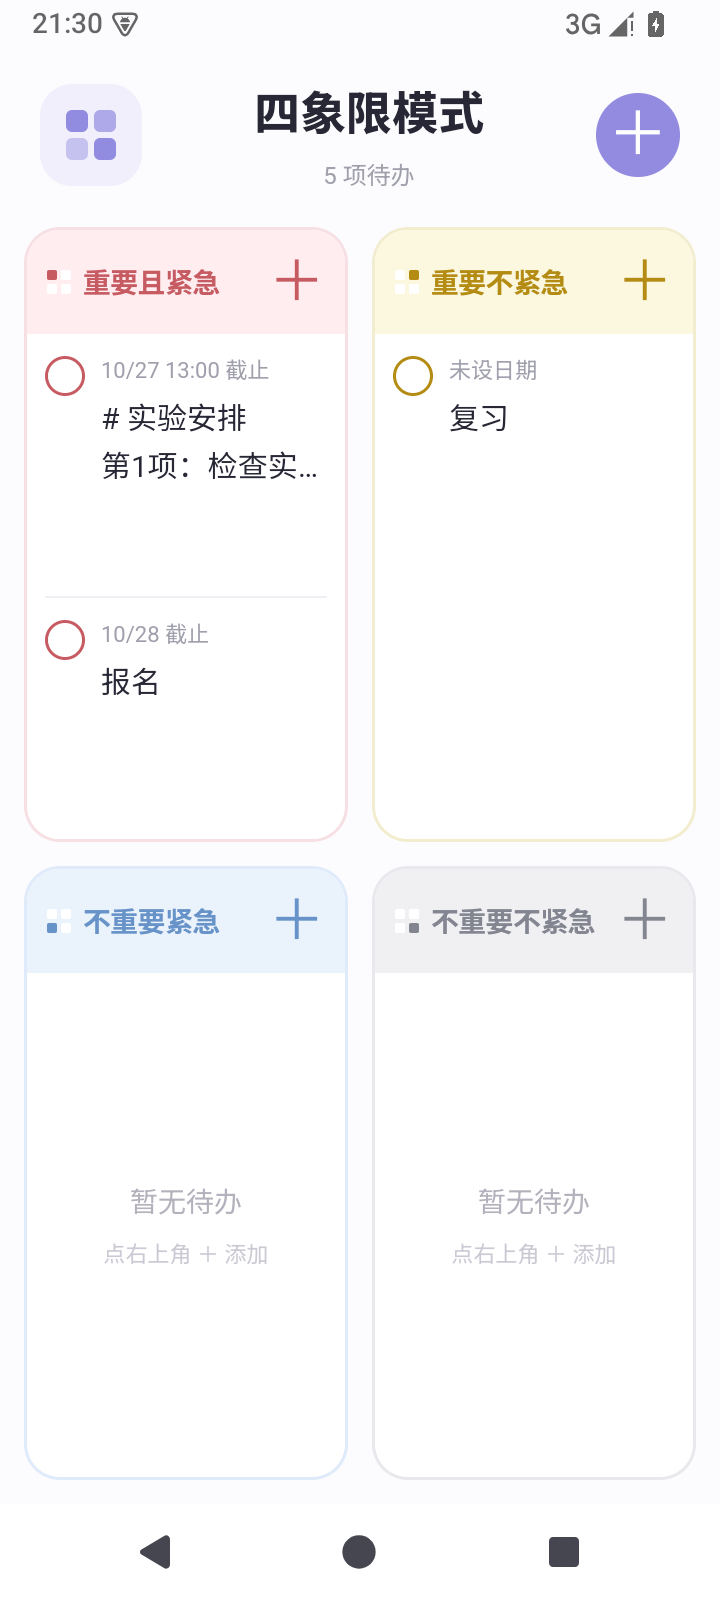
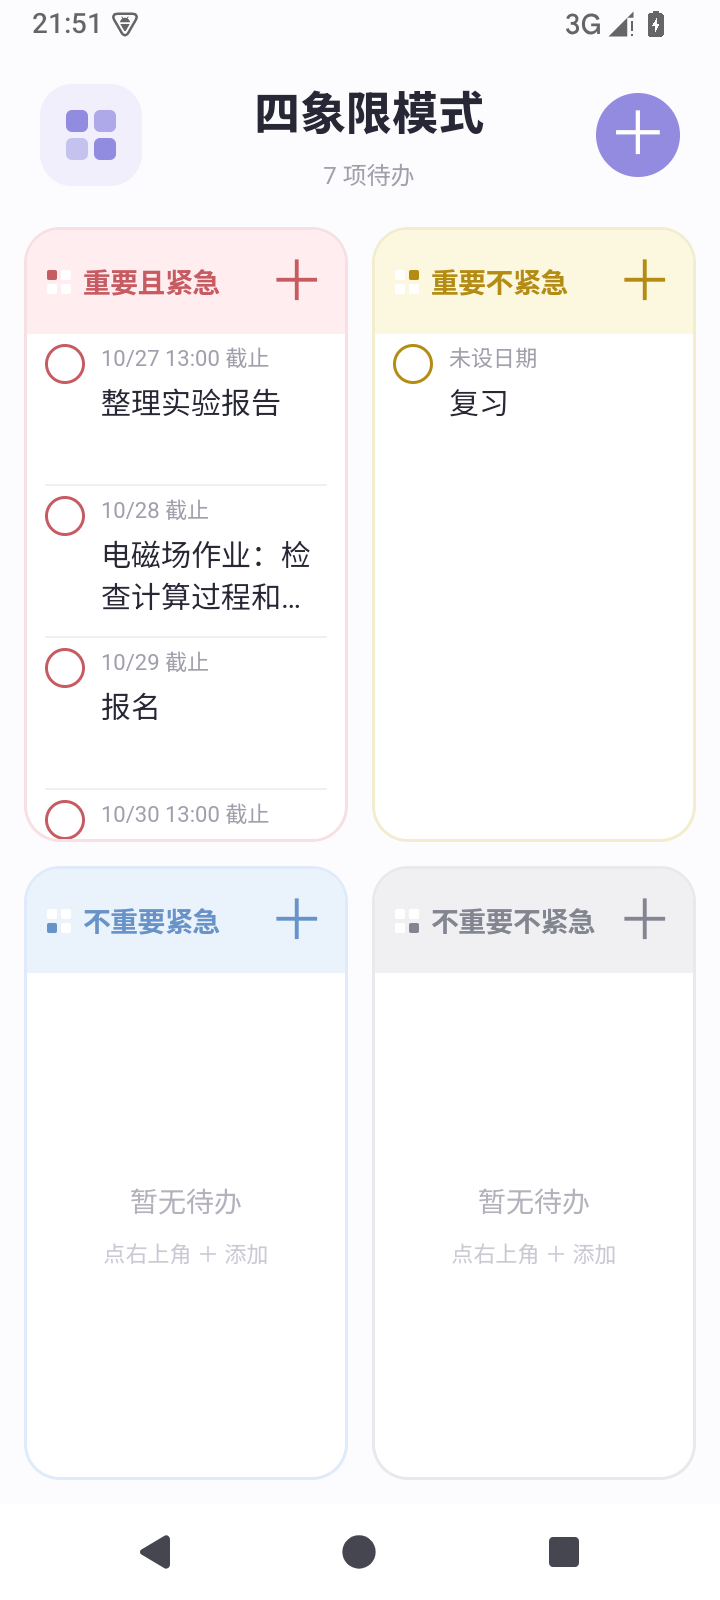
Fit about three and a half tasks per quadrant and show photos in details

diff --git a/assets/style.css b/assets/style.css
@@ -1,7 +1,7 @@
 :root{font-family:system-ui,-apple-system,"Noto Sans CJK SC","Microsoft YaHei",sans-serif;color:#272735;background:#fcfcfe;font-synthesis:none;--accent:#8580dd;--safe-top:0px;--safe-bottom:0px}
 *{box-sizing:border-box;-webkit-tap-highlight-color:transparent}body{margin:0;overscroll-behavior:none}button,input,textarea,select{font:inherit}button{cursor:pointer}button:focus-visible,select:focus-visible,textarea:focus-visible,input:focus-visible{outline:2px solid var(--accent);outline-offset:2px}[hidden]{display:none!important}
 #app{height:100vh;height:100dvh;padding:calc(12px + var(--safe-top)) 12px calc(12px + var(--safe-bottom));display:flex;flex-direction:column;gap:18px}.page-header{display:flex;align-items:center;justify-content:space-between;padding:3px 8px 0;flex:none}.page-header h1{font-size:27px;letter-spacing:.5px;margin:0;font-weight:750}.page-header p{font-size:12px;color:#a0a0ac;margin:6px 0 0}.app-mark{display:grid;grid-template-columns:11px 11px;gap:3px;padding:13px;border-radius:16px;background:#f0effb}.app-mark i{height:11px;background:#928ce0;border-radius:3px}.app-mark i:nth-child(2){opacity:.7}.app-mark i:nth-child(3){opacity:.45}
-.board{display:grid;grid-template-columns:minmax(0,1fr) minmax(0,1fr);grid-template-rows:minmax(0,1fr) minmax(0,1fr);gap:12px;flex:1;min-height:0}.quad{--q:#c65b62;--tint:#ffedf0;--line:#f6e0e4;display:flex;flex-direction:column;min-width:0;min-height:0;border:1.5px solid var(--line);border-radius:18px;background:white;overflow:hidden}.q2{--q:#b48b13;--tint:#fbf8df;--line:#f2edcf}.q3{--q:#6793c8;--tint:#eaf2fc;--line:#dfeafa}.q4{--q:#838591;--tint:#f0f0f3;--line:#e8e8ed}.quad-heading{display:flex;align-items:center;gap:6px;min-height:52px;padding:3px 4px 3px 10px;background:var(--tint);color:var(--q);flex:none}.quadrant-symbol{display:grid;grid-template-columns:5px 5px;grid-template-rows:5px 5px;gap:2px;flex:none}.quadrant-symbol i{background:white;border-radius:1px}.quadrant-symbol i.active{background:var(--q)}.quad-heading h2{font-size:14px;letter-spacing:-.35px;font-weight:650;margin:0;white-space:nowrap;flex:1;min-width:0}.add-button{width:40px;height:44px;flex:none;border:0;background:transparent;color:var(--q);font-size:28px;line-height:1;display:grid;place-items:center;border-radius:10px;padding:0}.add-button:active{background:#ffffff99}.quad-body{overflow-y:auto;overflow-x:hidden;flex:1;min-height:0;scrollbar-width:thin;scrollbar-color:var(--line) transparent;padding:0 9px}.empty{height:100%;min-height:65px;display:flex;flex-direction:column;align-items:center;justify-content:center;color:#b3b2bc;font-size:14px;gap:8px}.empty small{font-size:11px;color:#cbc9d3}.task{position:relative;overflow:hidden;border-bottom:1px solid #f0f0f4}.task-front{position:relative;z-index:1;width:100%;padding:13px 0 12px;display:flex;gap:8px;align-items:flex-start;background:white;touch-action:pan-y;user-select:none;transition:transform .18s ease}.swipe-delete{position:absolute;right:0;top:7px;bottom:7px;width:52px;min-height:36px;border:0;border-radius:11px;background:#dc5b67;color:white;display:flex;flex-direction:column;align-items:center;justify-content:center;gap:3px;font-size:11px;padding:5px}.swipe-delete svg{width:19px;height:19px;fill:none;stroke:currentColor;stroke-width:1.7;stroke-linecap:round;stroke-linejoin:round}.task:last-child{border-bottom:0}.check{border:1.5px solid var(--q);background:white;color:white;border-radius:50%;flex:none;width:20px;height:20px;padding:0;display:grid;place-items:center;margin-top:1px;position:relative}.check::before{content:"";position:absolute;inset:-9px}.check span{font-size:13px;visibility:hidden}.done .check{background:var(--q);opacity:.55}.done .check span{visibility:visible}.task-content{flex:1;min-width:0}.task-open{display:block;text-align:left;background:none;border:0;color:inherit;padding:0;width:100%}.task-title{display:block;font-size:15px;line-height:1.6;overflow-wrap:anywhere;white-space:pre-wrap}.due{display:block;font-size:11px;color:#a0a0ad;line-height:1.6;margin-bottom:3px;font-variant-numeric:tabular-nums}.due.urgent{color:#c65b62}.done .task-title{text-decoration:line-through;color:#b6b5bf}.done .due{color:#c0bfc7}.task-images{display:flex;gap:5px;flex-wrap:wrap;margin-top:8px}.thumb-button{position:relative;overflow:hidden;width:44px;height:44px;display:block;background:#f5f5f8;border:0;border-radius:7px;padding:0}.thumb-button img{width:100%;height:100%;object-fit:cover}.more-images{position:absolute;inset:0;display:grid;place-items:center;background:#2228;color:white;font-size:13px}
+.board{display:grid;grid-template-columns:minmax(0,1fr) minmax(0,1fr);grid-template-rows:minmax(0,1fr) minmax(0,1fr);gap:12px;flex:1;min-height:0}.quad{--q:#c65b62;--tint:#ffedf0;--line:#f6e0e4;display:flex;flex-direction:column;min-width:0;min-height:0;border:1.5px solid var(--line);border-radius:18px;background:white;overflow:hidden}.q2{--q:#b48b13;--tint:#fbf8df;--line:#f2edcf}.q3{--q:#6793c8;--tint:#eaf2fc;--line:#dfeafa}.q4{--q:#838591;--tint:#f0f0f3;--line:#e8e8ed}.quad-heading{display:flex;align-items:center;gap:6px;min-height:52px;padding:3px 4px 3px 10px;background:var(--tint);color:var(--q);flex:none}.quadrant-symbol{display:grid;grid-template-columns:5px 5px;grid-template-rows:5px 5px;gap:2px;flex:none}.quadrant-symbol i{background:white;border-radius:1px}.quadrant-symbol i.active{background:var(--q)}.quad-heading h2{font-size:14px;letter-spacing:-.35px;font-weight:650;margin:0;white-space:nowrap;flex:1;min-width:0}.add-button{width:40px;height:44px;flex:none;border:0;background:transparent;color:var(--q);font-size:28px;line-height:1;display:grid;place-items:center;border-radius:10px;padding:0}.add-button:active{background:#ffffff99}.quad-body{overflow-y:auto;overflow-x:hidden;flex:1;min-height:0;scrollbar-width:thin;scrollbar-color:var(--line) transparent;padding:0 9px}.empty{height:100%;min-height:65px;display:flex;flex-direction:column;align-items:center;justify-content:center;color:#b3b2bc;font-size:14px;gap:8px}.empty small{font-size:11px;color:#cbc9d3}.task{position:relative;overflow:hidden;border-bottom:1px solid #f0f0f4}.task-front{position:relative;z-index:1;width:100%;padding:13px 0 12px;display:flex;gap:8px;align-items:flex-start;background:white;touch-action:pan-y;user-select:none;transition:transform .18s ease}.swipe-delete{position:absolute;right:0;top:7px;bottom:7px;width:52px;min-height:36px;border:0;border-radius:11px;background:#dc5b67;color:white;display:flex;flex-direction:column;align-items:center;justify-content:center;gap:3px;font-size:11px;padding:5px}.swipe-delete svg{width:19px;height:19px;fill:none;stroke:currentColor;stroke-width:1.7;stroke-linecap:round;stroke-linejoin:round}.task:last-child{border-bottom:0}.check{border:1.5px solid var(--q);background:white;color:white;border-radius:50%;flex:none;width:20px;height:20px;padding:0;display:grid;place-items:center;margin-top:1px;position:relative}.check::before{content:"";position:absolute;inset:-9px}.check span{font-size:13px;visibility:hidden}.done .check{background:var(--q);opacity:.55}.done .check span{visibility:visible}.task-content{flex:1;min-width:0}.task-open{display:block;text-align:left;background:none;border:0;color:inherit;padding:0;width:100%}.task-title{display:block;font-size:15px;line-height:1.6;overflow-wrap:anywhere;white-space:pre-wrap}.due{display:block;font-size:11px;color:#a0a0ad;line-height:1.6;margin-bottom:3px;font-variant-numeric:tabular-nums}.due.urgent{color:#c65b62}.done .task-title{text-decoration:line-through;color:#b6b5bf}.done .due{color:#c0bfc7}.thumb-button{position:relative;overflow:hidden;width:44px;height:44px;display:block;background:#f5f5f8;border:0;border-radius:7px;padding:0}.thumb-button img{width:100%;height:100%;object-fit:cover}
 .overlay{position:fixed;inset:0;background:#27253566;z-index:10;display:flex;align-items:flex-end;justify-content:center;padding-top:calc(24px + var(--safe-top))}.sheet{width:100%;max-width:520px;background:#fff;border-radius:24px 24px 0 0;max-height:100%;display:flex;flex-direction:column;padding:0 20px calc(14px + var(--safe-bottom));box-shadow:0 -10px 40px #28243b12}.sheet-handle{height:4px;width:34px;background:#e8e7ee;border-radius:4px;margin:10px auto 3px;flex:none}.sheet-heading{display:flex;align-items:center;justify-content:space-between;min-height:55px;flex:none}.sheet h2{margin:0;font-size:20px;font-weight:650}.icon-button{border:0;background:none;color:#9b99a8;font-size:30px;width:44px;height:44px;display:grid;place-items:center;border-radius:50%;padding:0}.close{margin-right:-9px}#task-form{min-height:0;display:flex;flex-direction:column}.sheet-body{overflow-y:auto;padding:4px 0 2px;min-height:0}.field-label{font-size:12px;color:#9a98a5}textarea{resize:none;border:1px solid #ecebf2;background:#fafafd;border-radius:13px;width:100%;padding:13px;margin-top:8px;color:#33313e;font-size:16px;line-height:1.6;min-height:92px;max-height:160px}textarea::placeholder{color:#bdbbc8}.field-row{display:flex;gap:10px;align-items:center;justify-content:space-between;min-height:55px;border-bottom:1px solid #f2f1f6;font-size:14px}.field-row>label{color:#777482;flex:none}.field-row select{max-width:65%;border:0;background:#f5f3fd;color:#7f79c9;border-radius:9px;font-size:13px;padding:8px 23px 8px 10px;min-height:37px}.date-control{display:flex;align-items:center;gap:4px;min-width:0}input[type=date]{color:#777482;border:0;background:#faf9fe;border-radius:9px;max-width:165px;min-height:38px;padding:6px 5px;font-size:13px;color-scheme:light}.clear-date{width:28px;height:38px;border:0;background:none;color:#aaa5bb;font-size:21px;padding:0}.picture-heading{display:flex;justify-content:space-between;align-items:center;margin-top:10px;min-height:36px}.text-button{border:0;color:#8680cd;background:#f4f2fc;border-radius:9px;font-size:13px;min-height:36px;padding:7px 11px}.draft-images{display:flex;gap:9px;flex-wrap:wrap;padding:5px 0 7px}.draft-picture{position:relative}.draft-picture>.thumb-button{width:65px;height:65px;border-radius:10px}.remove-image{position:absolute;right:-5px;top:-5px;width:22px;height:22px;border-radius:50%;border:2px solid white;background:#8e899c;color:#fff;padding:0;display:grid;place-items:center;font-size:17px;line-height:1}.sheet-footer{padding-top:13px;display:flex;justify-content:flex-end;align-items:center;gap:12px;flex:none}.save-button{min-width:105px;min-height:43px;background:#8b84d8;border:0;border-radius:24px;color:white;font-size:15px;font-weight:600;padding:10px 25px}.save-button:active{background:#746cc4}.delete-button{margin-right:auto;border:0;background:none;color:#cb7d87;font-size:13px;min-height:43px;padding:8px 0}.form-error{margin:5px 0;font-size:12px;color:#c95160}.notice{font-size:13px;line-height:1.6;color:#b64d59;background:#fff0f1;border-radius:10px;padding:10px;flex:none}
 .image-viewer{position:fixed;inset:0;z-index:20;background:#18171d;color:white;display:flex;flex-direction:column;padding:var(--safe-top) 12px var(--safe-bottom);touch-action:none}.viewer-header{height:56px;display:flex;align-items:center;justify-content:space-between;flex:none;font-size:13px;color:#d3cfdc}.viewer-header .icon-button{color:white}.image-surface{position:relative;flex:1;min-height:0;overflow:hidden;display:flex;align-items:center;justify-content:center}.image-surface img{max-width:100%;max-height:100%;object-fit:contain;transform-origin:center;user-select:none;touch-action:none}.viewer-footer{display:flex;align-items:center;justify-content:space-between;height:55px;flex:none;color:#aaa6b4;font-size:11px}.viewer-button{border:0;background:#ffffff10;color:white;border-radius:50%;width:40px;height:40px;font-size:28px}
 @media(min-width:600px){#app{padding-left:24px;padding-right:24px;gap:22px}.page-header{padding:8px 5px 0}.page-header h1{font-size:30px}.board{gap:18px}.quad{border-radius:22px}.quad-heading{min-height:62px;padding-left:18px;padding-right:10px;gap:10px}.quad-heading h2{font-size:18px;letter-spacing:0}.quadrant-symbol{grid-template-columns:6px 6px;grid-template-rows:6px 6px}.quad-body{padding:0 18px}.task-title{font-size:17px}.due{font-size:12px}.task-front{padding:16px 0;gap:12px}.overlay{align-items:center;padding:calc(24px + var(--safe-top)) 24px calc(24px + var(--safe-bottom))}.sheet{border-radius:24px;padding-bottom:20px}.sheet-body{max-height:65vh}.thumb-button{width:55px;height:55px}}
@@ -26,5 +26,5 @@
 .page-header{gap:10px}.page-header .app-mark{border:0;flex:none}.header-title{flex:1;min-width:0;text-align:center}.page-header .header-title h1{font-size:23px;letter-spacing:0;white-space:nowrap}.header-add{width:42px;height:42px;flex:none;border:0;border-radius:50%;background:#928bdf;color:white;font-size:30px;line-height:1;padding:0}.mode-overlay{z-index:40;padding:0;align-items:stretch;justify-content:flex-start}.mode-panel{width:260px;max-width:82%;background:#f0eff9;padding:25px 18px}.mode-heading{display:flex;align-items:center;justify-content:space-between;margin-bottom:24px}.mode-heading h2{font-size:19px;font-weight:650;margin:0 0 0 8px}.view-option{width:100%;display:flex;align-items:center;gap:13px;min-height:62px;background:none;border:0;border-radius:13px;color:#676174;padding:11px;font-size:16px;text-align:left}.view-option[aria-pressed=true]{background:white;color:#857bd0}.mode-check{margin-left:auto;visibility:hidden;font-size:19px}.view-option[aria-pressed=true] .mode-check{visibility:visible}.mode-grid-symbol{display:grid;grid-template-columns:8px 8px;grid-template-rows:8px 8px;gap:2px;color:#a49adb;flex:none}.mode-grid-symbol i{background:currentColor;border-radius:2px}.mode-line-symbol{font-size:26px;color:#a49adb;width:18px;line-height:1;flex:none}.timeline{flex:1;min-height:0;overflow-y:auto;padding:7px 14px 22px;background:white;border-radius:18px}.timeline-year{display:flex;align-items:center;gap:14px;color:#bbb7c6;font-size:13px;padding:7px 0 14px 10px}.timeline-year::before,.timeline-year::after{content:"";height:1px;background:#f1eff6;flex:1}.timeline-group{position:relative;border-left:2px solid #eeecf5;margin-left:5px;padding:7px 0 15px 20px}.timeline-group>h2{font-size:16px;margin:0 0 5px;line-height:1.7;color:#4d465b;font-weight:600}.timeline-group::before{content:"";position:absolute;left:-5px;top:18px;width:8px;height:4px;border-radius:3px;background:#a096db}.task.q1{--q:#c65b62}.timeline .task-front{padding-top:10px;padding-bottom:14px}.timeline .task-title{font-size:16px}.timeline .task{border-bottom:0}.timeline .due{font-size:12px}.timeline .check{margin-top:3px}
 @media(min-width:600px){.timeline{padding:16px 30px 25px;max-width:1000px;width:100%;align-self:center}.timeline .task-title{font-size:18px}.timeline-group{padding-left:25px}.page-header .header-title h1{font-size:26px}}
 @media(max-width:359px){.page-header{gap:7px;padding-left:2px;padding-right:2px}.page-header .header-title h1{font-size:20px}.header-add{width:37px;height:37px}}
-.task{height:132px}.task-front,.timeline .task-front{height:100%;padding:10px 0}.task-content{height:100%;display:flex;flex-direction:column;min-height:0}.task-open{display:flex;flex-direction:column;align-items:stretch;justify-content:flex-start;flex:1;min-height:0;overflow:hidden}.task-title{display:-webkit-box;-webkit-box-orient:vertical;-webkit-line-clamp:2;overflow:hidden;flex:none}.due{flex:none;line-height:18px;min-height:18px;white-space:nowrap;overflow:hidden;text-overflow:ellipsis}.task-images{flex:none;flex-wrap:nowrap;margin-top:auto;padding-top:4px}.task-images .thumb-button{width:32px;height:32px;flex:0 1 32px;min-width:0}.editing textarea{max-height:none;overflow:hidden}
-@media(min-width:600px){.task{height:144px}.task-front,.timeline .task-front{padding:12px 0}}
+.task{height:80px}.board .task{height:var(--task-row-height,80px)}.task-front,.timeline .task-front{height:100%;padding:4px 0}.task-content{height:100%;display:flex;flex-direction:column;min-height:0}.task-open{display:flex;flex-direction:column;align-items:stretch;justify-content:flex-start;flex:1;min-height:0;overflow:hidden}.task-title{line-height:1.4;display:-webkit-box;-webkit-box-orient:vertical;-webkit-line-clamp:2;overflow:hidden;flex:none}.due{flex:none;line-height:18px;min-height:18px;white-space:nowrap;overflow:hidden;text-overflow:ellipsis}.editing textarea{max-height:none;overflow:hidden}
+@media(min-width:600px){.task{height:88px}}

diff --git a/tests/compact-tasks-check.js b/tests/compact-tasks-check.js
@@ -18,6 +18,7 @@ const path = require('node:path');
     const done = C.saveTask(state, {text, quadrant: 2}); C.toggleDone(state, done.id);
     C.saveTask(state, {text: '带图片的短待办', quadrant: 3, images: [image]});
     C.saveTask(state, {text: '复习', quadrant: 4, due: '2026-10-30'});
+    C.saveTask(state, {text: '取快递', quadrant: 1, due: '2026-10-30'});
     localStorage.setItem('fufu-list.v1', C.serialize(state));
   }, longText);
   await page.reload();
@@ -29,9 +30,19 @@ const path = require('node:path');
         const title = row.querySelector('.task-title'), rect = row.getBoundingClientRect();
         return {height: rect.height, titleHeight: title.getBoundingClientRect().height, lineHeight: parseFloat(getComputedStyle(title).lineHeight)};
       }));
-      assert.equal(metrics.length, 6);
+      assert.equal(metrics.length, 7);
       assert.ok(metrics.every(row => Math.abs(row.height - metrics[0].height) < .1), 'short/long/dated/undated/attached/completed rows have equal heights at ' + view + ' ' + viewport.width);
       assert.ok(metrics.every(row => row.titleHeight <= row.lineHeight * 2 + 1), 'overview text is at most two lines');
+      assert.equal(await page.locator('.task img').count(), 0, 'attachments are not rendered or loaded in either overview');
+      const fits = await page.locator('.task-open').evaluateAll(buttons => buttons.every(button => {
+        const due = button.querySelector('.due'), title = button.querySelector('.task-title');
+        return button.clientHeight + 1 >= due.getBoundingClientRect().height + parseFloat(getComputedStyle(due).marginBottom) + title.getBoundingClientRect().height;
+      }));
+      assert.ok(fits, 'date and both title lines fit in the compact row');
+      if (view === 'matrix' && viewport.width === 360) {
+        const capacity = await page.locator('.q1 .quad-body').evaluate(body => body.clientHeight / body.querySelector('.task').getBoundingClientRect().height);
+        assert.ok(capacity >= 3.2 && capacity <= 3.8, 'one normal phone quadrant shows about 3.5 tasks, got ' + capacity);
+      }
       assert.equal(await page.evaluate(() => document.documentElement.scrollWidth), viewport.width, 'no horizontal overflow');
       if (view === 'matrix' && viewport.width === 360) await page.screenshot({path: path.resolve(__dirname, '../qa/compact-tasks-phone.png')});
     }
@@ -79,10 +90,13 @@ const path = require('node:path');
   await page.locator('.task[data-id="2"] .task-open').click();
   assert.equal(await page.locator('#task-text').inputValue(), longText + '\n最后一行：完整保存。');
   await page.locator('#cancel').click();
-  await page.locator('.task[data-id="3"] .thumb-button').first().click();
-  assert.equal(await page.locator('#image-viewer').isVisible(), true, 'compact thumbnails still open all saved attachments');
+  await page.locator('.task[data-id="3"] .task-open').click();
+  assert.equal(await page.locator('#draft-images .thumb-button').count(), 3, 'all attachments are available inside details');
+  await page.locator('#draft-images .thumb-button').first().click();
+  assert.equal(await page.locator('#image-viewer').isVisible(), true, 'detail thumbnails open saved attachments');
   assert.match(await page.locator('#image-position').innerText(), /1\s*\/\s*3/);
   await page.locator('#close-viewer').click();
+  await page.locator('#cancel').click();
   await page.clock.runFor(60000);
   assert.equal(await page.locator('.task[data-id="1"] .due').innerText(), '未设日期');
   assert.deepEqual(errors, []);

diff --git a/assets/app.js b/assets/app.js
@@ -96,7 +96,6 @@
     const open = document.createElement('button'); open.className = 'task-open'; open.setAttribute('aria-label', '编辑：' + t.text); open.addEventListener('click', () => openEditor(q, t));
     const due = document.createElement('span'); updateDue(due, t); open.appendChild(due);
     const text = document.createElement('span'); text.className = 'task-title'; text.textContent = t.text; open.appendChild(text); content.appendChild(open);
-    if (t.images.length) { const images = document.createElement('div'); images.className = 'task-images'; t.images.slice(0, 3).forEach((file, index) => { const button = thumb(file, '查看附件图片 ' + (index + 1), () => showImages(t.images, index)); if (index === 2 && t.images.length > 3) { const more = document.createElement('span'); more.className = 'more-images'; more.textContent = '+' + (t.images.length - 2); button.appendChild(more); } images.appendChild(button); }); content.appendChild(images); }
     const front = document.createElement('div'); front.className = 'task-front'; front.append(check, content);
     swipeToDelete(row, front, t); return row;
   }
@@ -160,6 +159,11 @@
     } else { renderTimeline(); $('#timeline').scrollTop = timelineScroll; }
     const count = state.tasks.filter(t => !t.done).length;
     $('#summary').textContent = count ? count + ' 项待办' : '夫夫清单';
+    resizeTaskRows();
+  }
+  function resizeTaskRows() {
+    const body = $('#board .quad-body');
+    if (body && body.clientHeight) $('#board').style.setProperty('--task-row-height', Math.max(innerWidth >= 600 ? 84 : 76, body.clientHeight / 3.5) + 'px');
   }
   function rememberDraft() {
     if (draft) localStorage.setItem(key + '.draft', JSON.stringify({...draft, text: $('#task-text').value, quadrant: Number($('#task-quadrant').value), due: $('#task-due').value}));
@@ -301,6 +305,7 @@
   document.addEventListener('visibilitychange', () => { if (!document.hidden) render(); });
   setInterval(() => { if (document.hidden) return; if (renderedDay !== today()) { render(); return; } state.tasks.forEach(task => document.querySelectorAll('.task[data-id="' + task.id + '"] .due').forEach(element => updateDue(element, task))); }, 60000);
   render();
+  new ResizeObserver(resizeTaskRows).observe($('#board'));
   if (!readingFailed) {
     try { const saved = JSON.parse(localStorage.getItem(key + '.draft')); if (saved) { openEditor(saved.quadrant, saved.id ? saved : null, saved); if (native) setImporting(native.isPicking()); } }
     catch (error) { localStorage.removeItem(key + '.draft'); }

diff --git a/tests/browser-check.js b/tests/browser-check.js
@@ -36,12 +36,15 @@ const path = require('node:path');
   assert.equal(await page.locator('.q1 .task').count(), 1);
   assert.match(await page.locator('.q1 .due').innerText(), /10\/29/);
   assert.match(await page.locator('.q1 .due').innerText(), /18:30/);
-  await page.locator('.q1 .thumb-button').click();
+  assert.equal(await page.locator('.q1 img').count(), 0);
+  await page.locator('.q1 .task-open').click();
+  await page.locator('#draft-images .thumb-button').click();
   assert.equal(await page.locator('#image-viewer').isVisible(), true);
   await page.locator('#close-viewer').click();
+  await page.locator('#cancel').click();
   await page.reload();
   assert.equal(await page.locator('.q1 .task').count(), 1);
-  assert.equal(await page.locator('.q1 .task-images img').count(), 1);
+  assert.equal(await page.locator('.q1 img').count(), 0);
   await page.locator('.q1 .check').click();
   assert.equal(await page.locator('.q1 .task.done').count(), 1);
   await page.locator('.q1 .check').click();
@@ -51,7 +54,10 @@ const path = require('node:path');
   await page.locator('#open-priority').click(); await page.locator('[data-priority="2"]').click(); await page.locator('#header-save').click();
   assert.equal(await page.locator('.q1 .task').count(), 0);
   assert.equal(await page.locator('.q2 .task-title').innerText(), '<实验报告>\n检查数据和图片');
-  assert.equal(await page.locator('.q2 .task-images img').count(), 1);
+  assert.equal(await page.locator('.q2 img').count(), 0);
+  await page.locator('.q2 .task-open').click();
+  assert.equal(await page.locator('#draft-images .thumb-button').count(), 1);
+  await page.locator('#cancel').click();
   for (const viewport of [{width: 360, height: 800}, {width: 320, height: 568}, {width: 800, height: 1280}, {width: 1280, height: 800}]) {
     await page.setViewportSize(viewport);
     const metrics = await page.evaluate(() => ({

diff --git a/tests/lifecycle-check.js b/tests/lifecycle-check.js
@@ -34,7 +34,10 @@ const assert = require('node:assert/strict');
   await page.reload();
   assert.equal(await page.locator('#editor-layer').isVisible(), false, 'saved editor must not reappear');
   assert.equal(await page.locator('.q1 .task-title').innerText(), '选图期间保留的草稿');
-  assert.equal(await page.locator('.q1 .task-images img').count(), 1);
+  assert.equal(await page.locator('.q1 img').count(), 0);
+  await page.locator('.q1 .task-open').click();
+  assert.equal(await page.locator('.draft-picture').count(), 1);
+  await page.locator('#cancel').click();
   await page.locator('.q2 .add-button').click();
   await page.locator('#add-images').click();
   await page.evaluate(() => { sessionStorage.removeItem('picking'); window.onImagesPicked([], ''); });

diff --git a/tests/gestures-check.js b/tests/gestures-check.js
@@ -42,8 +42,9 @@ const fs = require('node:fs');
   await page.locator('#header-save').click();
   assert.equal(await page.locator('.q2 .task').count(), 1);
   assert.match(await page.locator('.q2 .due').innerText(), /10\/29 18:30/);
-  assert.equal(await page.locator('.q2 .task-images img').count(), 1);
+  assert.equal(await page.locator('.q2 img').count(), 0);
   await page.locator('.q2 .task-open').click();
+  assert.equal(await page.locator('.draft-picture').count(), 1);
   await page.locator('#open-priority').click();
   await page.evaluate(() => window.handleBack());
   assert.equal(await page.locator('#priority-layer').isVisible(), false);

diff --git a/README.md b/README.md
@@ -1,8 +1,8 @@
-# 夫夫清单 1.0.4
+# 夫夫清单 1.0.5
 
 供 Android 手机和平板使用的本地待办清单，支持四象限和时间轴。界面参考用户提供的原子清单截图，应用独立制作。
 
-1.0.4 将总览中的每条待办统一为等高单元，长文字最多预览两行，打开详情后完整展开。手机和平板、四象限和时间轴均适用。
+1.0.5 压缩总览行距，每个象限按可用高度安排约 3.5 条等高待办。总览只显示日期和文字，图片缩略图移到详情中显示。
 
 安卓桌面图标采用用户提供的四格插画，适配不同屏幕密度和系统图标形状；原图保存在 `artwork/launcher-original.png`。
 
@@ -10,7 +10,7 @@
 
 ## 下载安装
 
-- [直接下载 1.0.4 安卓安装包](https://github.com/Tabassa/fufu-list/releases/download/v1.0.4/fufu-list-1.0.4.apk)
+- [直接下载 1.0.5 安卓安装包](https://github.com/Tabassa/fufu-list/releases/download/v1.0.5/fufu-list-1.0.5.apk)
 - [查看最新发布版本](https://github.com/Tabassa/fufu-list/releases/latest)
 
 手机或平板下载 APK 后打开安装，也可以先下载到电脑，再通过 QQ 发送至设备。不需要编译源码。
@@ -21,16 +21,18 @@
 
 <img src="docs/timeline.png" alt="按截止日期和时间排列的时间轴" width="300"> <img src="docs/priority.png" alt="彩色四宫格优先级选择" width="300"> <img src="docs/time-wheel.png" alt="小时和分钟滚轮选择截止时间" width="300">
 
-总览中的待办保持同样高度，带日期、无日期、图片附件和长文字均不会撑大格子。文字超出两行时省略显示，正文完整保留；点开详情后文字框自动展开，整页可滚动阅读和编辑。
+同一象限中的待办保持同样高度，文字超出两行时省略显示，正文完整保留。常见手机尺寸约能看到 3.5 条；特别短的屏幕会保留可读行高，显示数量相应减少。总览不加载或展示图片，点开详情后可查看附件缩略图、放大图片，文字框仍按全文展开。
 
 <img src="docs/expanded-detail.png" alt="长篇待办在详情中完整展开" width="300">
 
+<img src="docs/photo-detail.png" alt="图片附件仅在待办详情中预览" width="300">
+
 ## 使用
 
-1. 将 `fufu-list-1.0.4.apk` 通过 QQ 发送到手机或平板，下载完整后点击安装。若系统要求授权，允许此次用于打开 APK 的 QQ 或文件管理器安装应用。
+1. 将 `fufu-list-1.0.5.apk` 通过 QQ 发送到手机或平板，下载完整后点击安装。若系统要求授权，允许此次用于打开 APK 的 QQ 或文件管理器安装应用。
 2. 首次打开就是四象限。点击左上角四象限图标，在「展示模式」中切换四象限或时间轴。时间轴跨象限按截止日期和时间从近到远排列；未设日期和已完成的任务放在后面。
 3. 点击任一象限右上角「＋」新增，该象限自动成为默认优先级；右上角总「＋」也可直接新增。点击优先级会弹出彩色四宫格，选中后保存即可移动象限。点击「日期」在月历上选择一天，点击「具体时间」用小时、分钟两列滚轮选择，再点「确定」和「保存」。只有一个截止时间，日期与时间直接显示在任务中。
-4. 点击「添加图片」调用系统选择器，可附多张图片。缩略图可点开看大图，支持双指缩放；编辑页可移除附件。
+4. 在详情中点击「添加图片」调用系统选择器，可附多张图片。图片缩略图仅在详情显示，可点开看大图，支持双指缩放；编辑页可移除附件。
 5. 点击事项文字进入全屏编辑页，点击圆圈完成或恢复待办。也可以在四象限总览中按住事项从右往左滑，露出右侧删除键。点击删除后仍需点击「确认删除」；取消则保留待办。
 
 无需登录，不含广告；所有界面随安装包提供，不需要联网。任务和图片副本存放在本机应用私有目录。选入的图片会复制保存，后续移动原图不会影响已经保存的附件。
@@ -65,7 +67,7 @@
 
 ## 构建源码
 
-应用 ID：`com.fufu.todo`，版本：`1.0.4`。Java Activity 承载完全本地的 HTML/CSS/JS 页面，系统文档选择器负责导入图片，`AtomicFile` 保存任务 JSON。不申请网络和广泛相册权限。
+应用 ID：`com.fufu.todo`，版本：`1.0.5`。Java Activity 承载完全本地的 HTML/CSS/JS 页面，系统文档选择器负责导入图片，`AtomicFile` 保存任务 JSON。不申请网络和广泛相册权限。
 
 使用 Windows PowerShell 7、JDK 17、Android SDK Platform 35 / Build Tools 35.0.0。无需 Gradle 或在线依赖解析。将源码目录与以下 `toolchain` 目录并排放置：
 
@@ -79,7 +81,7 @@ work/
     sdk/build-tools/35.0.0/
 ```
 
-在源码目录运行 `./build.ps1`，生成 `build/fufu-list-1.0.4.apk`。第一次构建会在同级 `fufu-signing` 目录生成本地签名密钥。仓库不包含私钥、Android SDK、JDK 或用户数据。重新生成的密钥与 Releases 中 APK 的签名不同；覆盖升级须继续使用原签名密钥。
+在源码目录运行 `./build.ps1`，生成 `build/fufu-list-1.0.5.apk`。第一次构建会在同级 `fufu-signing` 目录生成本地签名密钥。仓库不包含私钥、Android SDK、JDK 或用户数据。重新生成的密钥与 Releases 中 APK 的签名不同；覆盖升级须继续使用原签名密钥。
 
 核心和识别测试：`node --test tests/core.test.js tests/deadline.test.js`。
 

diff --git a/VALIDATION.md b/VALIDATION.md
@@ -1,5 +1,13 @@
 # 交付验证记录
 
+## 1.0.5 验证（2026-10-22）
+
+- 核心及识别测试 15/15、浏览器完整操作等 7 个交互检查全部通过。新增密度检查：360×800 每象限可见约 3.50 条，短正文、长文、日期/无日期、带附件和已完成的任务仍等高，日期和两行预览均可容纳。
+- 连续调整手机/平板尺寸与跨越 600px 宽度断点，行高按象限高度更新，无 ResizeObserver 循环或页面错误。特别短屏使用最小可读行高，320×568 约显示 2.38 条，不强行压缩文字。
+- 四象限和时间轴的总览图片元素均为 0；打开详情仍显示原来的三张附件，支持大图预览。正文保存、长文展开、末尾输入、日期识别、左滑删除、优先级和时间滚轮回归通过。
+- Android 15 模拟器：先为升级检查预置带图样例，覆盖安装 1.0.5 后任务及附件保留；总览显示三条及第四条的一部分，不显示图片。详情显示缩略图并可打开大图，保存、强制停止和重开后附件引用及图片 SHA-256 均保持一致。
+- 版本 `1.0.5` / code 6；原包名及证书，v1/v2/v3 签名通过，APK 页面文件与测试源文件逐字节一致。未连接 vivo 实机。
+
 ## 1.0.4 验证（2026-10-22）
 
 - 核心及日期识别测试 15/15 通过；浏览器完整操作、选图生命周期、左滑删除、滚轮、时间轴、正文识别、等高预览与长文编辑共 7 个交互检查通过。
